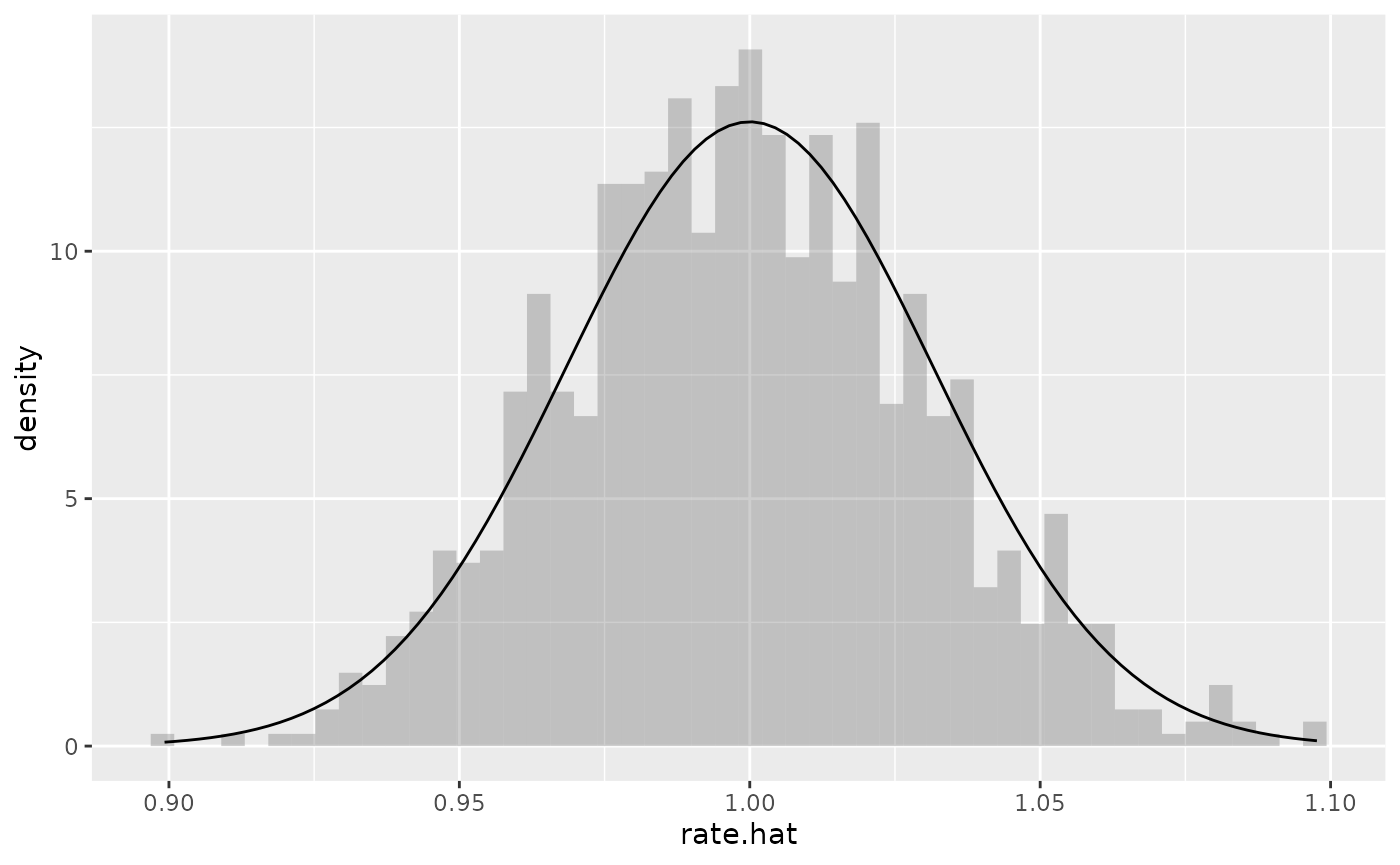
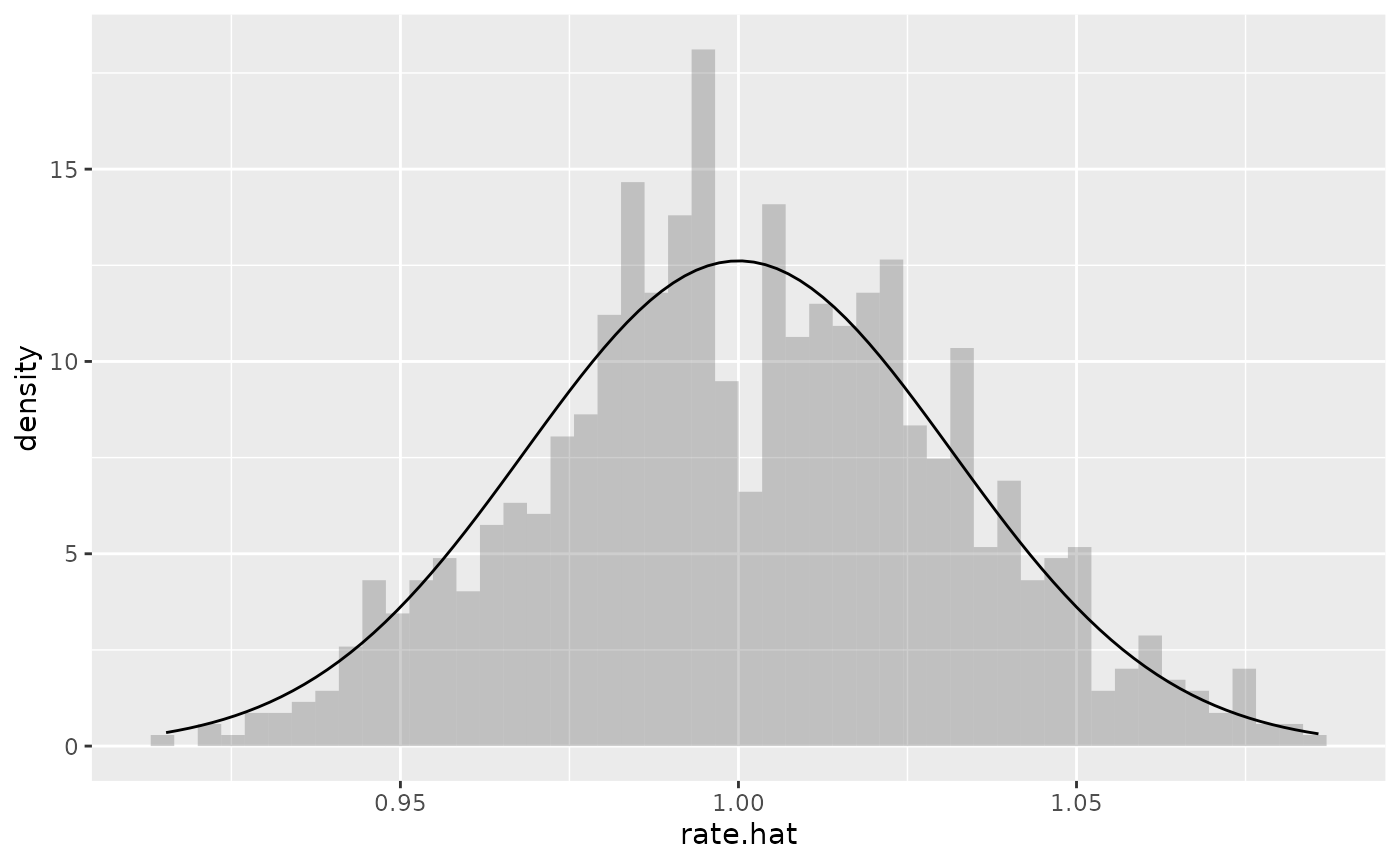
Built site for algebraic.mle: 0.9.0@6d1b77b

diff --git a/articles/exponential-mle.html b/articles/exponential-mle.html
@@ -105,10 +105,10 @@
 <span class="co">#&gt; <span style="color: #949494;"># A tibble: 4 × 1</span></span>
 <span class="co">#&gt;        x</span>
 <span class="co">#&gt;    <span style="color: #949494; font-style: italic;">&lt;dbl&gt;</span></span>
-<span class="co">#&gt; <span style="color: #BCBCBC;">1</span> 2.31  </span>
-<span class="co">#&gt; <span style="color: #BCBCBC;">2</span> 0.943 </span>
-<span class="co">#&gt; <span style="color: #BCBCBC;">3</span> 0.988 </span>
-<span class="co">#&gt; <span style="color: #BCBCBC;">4</span> 0.053<span style="text-decoration: underline;">7</span></span></code></pre></div>
+<span class="co">#&gt; <span style="color: #BCBCBC;">1</span> 0.039<span style="text-decoration: underline;">8</span></span>
+<span class="co">#&gt; <span style="color: #BCBCBC;">2</span> 0.418 </span>
+<span class="co">#&gt; <span style="color: #BCBCBC;">3</span> 0.644 </span>
+<span class="co">#&gt; <span style="color: #BCBCBC;">4</span> 1.05</span></code></pre></div>
 <p>We show a histogram of the sample overlaid with a plot of the exponential function’s pdf, with:</p>
 <div class="sourceCode" id="cb5"><pre class="downlit sourceCode r">
 <code class="sourceCode R"><span class="fu"><a href="https://ggplot2.tidyverse.org/reference/ggplot.html" class="external-link">ggplot</a></span><span class="op">(</span><span class="va">x</span>, <span class="fu"><a href="https://ggplot2.tidyverse.org/reference/aes.html" class="external-link">aes</a></span><span class="op">(</span>x<span class="op">=</span><span class="va">x</span><span class="op">)</span><span class="op">)</span> <span class="op">+</span> <span class="fu"><a href="https://ggplot2.tidyverse.org/reference/geom_histogram.html" class="external-link">geom_histogram</a></span><span class="op">(</span><span class="fu"><a href="https://ggplot2.tidyverse.org/reference/aes.html" class="external-link">aes</a></span><span class="op">(</span>y<span class="op">=</span><span class="va">..density..</span><span class="op">)</span>,alpha<span class="op">=</span><span class="fl">.2</span><span class="op">)</span> <span class="op">+</span>
@@ -125,35 +125,35 @@
 <span class="fu"><a href="https://rdrr.io/r/base/summary.html" class="external-link">summary</a></span><span class="op">(</span><span class="va">rate.hat</span><span class="op">)</span>
 <span class="co">#&gt; Maximum likelihood estimator, of type mle ,</span>
 <span class="co">#&gt; is normally distributed with mean</span>
-<span class="co">#&gt; [1] 1.074201</span>
+<span class="co">#&gt; [1] 1.034449</span>
 <span class="co">#&gt; and variance-covariance</span>
 <span class="co">#&gt;             [,1]</span>
-<span class="co">#&gt; [1,] 0.001153907</span>
+<span class="co">#&gt; [1,] 0.001070085</span>
 <span class="co">#&gt; ---</span>
-<span class="co">#&gt; The asymptotic mean squared error 0.001153907 </span>
+<span class="co">#&gt; The asymptotic mean squared error 0.001070085 </span>
 <span class="co">#&gt; The asymptotic 95% confidence interval is</span>
-<span class="co">#&gt;      2.5 %   97.5 %</span>
-<span class="co">#&gt; 1 1.018326 1.130075</span>
-<span class="co">#&gt; The log-likelihood is -928.4233 </span>
-<span class="co">#&gt; The AIC is 1858.847</span></code></pre></div>
+<span class="co">#&gt;       2.5 %   97.5 %</span>
+<span class="co">#&gt; 1 0.9806423 1.088256</span>
+<span class="co">#&gt; The log-likelihood is -966.1311 </span>
+<span class="co">#&gt; The AIC is 1934.262</span></code></pre></div>
 <p>We can show the point estimator with:</p>
 <div class="sourceCode" id="cb7"><pre class="downlit sourceCode r">
 <code class="sourceCode R"><span class="fu"><a href="../reference/point.html">point</a></span><span class="op">(</span><span class="va">rate.hat</span><span class="op">)</span>
-<span class="co">#&gt; [1] 1.074201</span></code></pre></div>
+<span class="co">#&gt; [1] 1.034449</span></code></pre></div>
 <p>We can show the Fisher information and variance-covariance matrices with:</p>
 <div class="sourceCode" id="cb8"><pre class="downlit sourceCode r">
 <code class="sourceCode R"><span class="fu"><a href="../reference/fisher_info.html">fisher_info</a></span><span class="op">(</span><span class="va">rate.hat</span><span class="op">)</span>
 <span class="co">#&gt;          [,1]</span>
-<span class="co">#&gt; [1,] 866.6211</span>
+<span class="co">#&gt; [1,] 934.5055</span>
 <span class="fu"><a href="https://rdrr.io/r/stats/vcov.html" class="external-link">vcov</a></span><span class="op">(</span><span class="va">rate.hat</span><span class="op">)</span>
 <span class="co">#&gt;             [,1]</span>
-<span class="co">#&gt; [1,] 0.001153907</span></code></pre></div>
+<span class="co">#&gt; [1,] 0.001070085</span></code></pre></div>
 <p>(If <code>rate.hat</code> had been a vector, <code>vcov</code> would have output a variance-covariance matrix. We may consider the above outputs <span class="math inline">\(1 \times 1\)</span> matrices.)</p>
 <p>We can show the confidence interval with:</p>
 <div class="sourceCode" id="cb9"><pre class="downlit sourceCode r">
 <code class="sourceCode R"><span class="fu"><a href="https://rdrr.io/r/stats/confint.html" class="external-link">confint</a></span><span class="op">(</span><span class="va">rate.hat</span><span class="op">)</span>
-<span class="co">#&gt;      2.5 %   97.5 %</span>
-<span class="co">#&gt; 1 1.018326 1.130075</span></code></pre></div>
+<span class="co">#&gt;       2.5 %   97.5 %</span>
+<span class="co">#&gt; 1 0.9806423 1.088256</span></code></pre></div>
 <div class="section level3">
 <h3 id="sampling-distribution-of-the-mle">Sampling distribution of the MLE<a class="anchor" aria-label="anchor" href="#sampling-distribution-of-the-mle"></a>
 </h3>
@@ -206,10 +206,10 @@
 <div class="sourceCode" id="cb15"><pre class="downlit sourceCode r">
 <code class="sourceCode R"><span class="fu"><a href="../reference/point.html">point</a></span><span class="op">(</span><span class="va">f.hat</span><span class="op">)</span>
 <span class="co">#&gt;          [,1]</span>
-<span class="co">#&gt; [1,] 2.148401</span>
+<span class="co">#&gt; [1,] 2.068898</span>
 <span class="fu"><a href="https://rdrr.io/r/stats/vcov.html" class="external-link">vcov</a></span><span class="op">(</span><span class="va">f.hat</span><span class="op">)</span>
 <span class="co">#&gt;             [,1]</span>
-<span class="co">#&gt; [1,] 0.004569384</span></code></pre></div>
+<span class="co">#&gt; [1,] 0.004079375</span></code></pre></div>
 </div>
 </div>
 </div>
@@ -249,8 +249,8 @@
 <span class="fu"><a href="https://tibble.tidyverse.org/reference/rownames.html" class="external-link">rownames</a></span><span class="op">(</span><span class="va">df</span><span class="op">)</span> <span class="op">&lt;-</span> <span class="fu"><a href="https://rdrr.io/r/base/c.html" class="external-link">c</a></span><span class="op">(</span><span class="st">"weighted MLE"</span>, <span class="st">"MLE"</span><span class="op">)</span>
 <span class="fu"><a href="https://rdrr.io/r/base/print.html" class="external-link">print</a></span><span class="op">(</span><span class="va">df</span><span class="op">)</span>
 <span class="co">#&gt;              point estimate     variance</span>
-<span class="co">#&gt; weighted MLE      0.9535007 0.0009182141</span>
-<span class="co">#&gt; MLE               0.9629926 0.0009273548</span></code></pre></div>
+<span class="co">#&gt; weighted MLE      0.9831240 0.0009691236</span>
+<span class="co">#&gt; MLE               0.9857592 0.0009717212</span></code></pre></div>
 <p>We see that <span class="math inline">\(\hat\theta\)</span> and <span class="math inline">\(\hat\theta_w\)</span> model approximately the same sampling distribution for <span class="math inline">\(\theta\)</span>.</p>
 </div>
 </div>

diff --git a/reference/sd.mle.html b/reference/sd.mle.html
@@ -1,0 +1,93 @@
+<!DOCTYPE html>
+<!-- Generated by pkgdown: do not edit by hand --><html lang="en"><head><meta http-equiv="Content-Type" content="text/html; charset=UTF-8"><meta charset="utf-8"><meta http-equiv="X-UA-Compatible" content="IE=edge"><meta name="viewport" content="width=device-width, initial-scale=1, shrink-to-fit=no"><meta name="description" content="Method for obtaining the standard deviation of an mle object."><title>Method for obtaining the standard deviation of an mle object. — sd.mle • algebraic.mle</title><script src="../deps/jquery-3.6.0/jquery-3.6.0.min.js"></script><meta name="viewport" content="width=device-width, initial-scale=1, shrink-to-fit=no"><link href="../deps/bootstrap-5.1.0/bootstrap.min.css" rel="stylesheet"><script src="../deps/bootstrap-5.1.0/bootstrap.bundle.min.js"></script><!-- Font Awesome icons --><link rel="stylesheet" href="https://cdnjs.cloudflare.com/ajax/libs/font-awesome/5.12.1/css/all.min.css" integrity="sha256-mmgLkCYLUQbXn0B1SRqzHar6dCnv9oZFPEC1g1cwlkk=" crossorigin="anonymous"><link rel="stylesheet" href="https://cdnjs.cloudflare.com/ajax/libs/font-awesome/5.12.1/css/v4-shims.min.css" integrity="sha256-wZjR52fzng1pJHwx4aV2AO3yyTOXrcDW7jBpJtTwVxw=" crossorigin="anonymous"><!-- bootstrap-toc --><script src="https://cdn.rawgit.com/afeld/bootstrap-toc/v1.0.1/dist/bootstrap-toc.min.js"></script><!-- headroom.js --><script src="https://cdnjs.cloudflare.com/ajax/libs/headroom/0.11.0/headroom.min.js" integrity="sha256-AsUX4SJE1+yuDu5+mAVzJbuYNPHj/WroHuZ8Ir/CkE0=" crossorigin="anonymous"></script><script src="https://cdnjs.cloudflare.com/ajax/libs/headroom/0.11.0/jQuery.headroom.min.js" integrity="sha256-ZX/yNShbjqsohH1k95liqY9Gd8uOiE1S4vZc+9KQ1K4=" crossorigin="anonymous"></script><!-- clipboard.js --><script src="https://cdnjs.cloudflare.com/ajax/libs/clipboard.js/2.0.6/clipboard.min.js" integrity="sha256-inc5kl9MA1hkeYUt+EC3BhlIgyp/2jDIyBLS6k3UxPI=" crossorigin="anonymous"></script><!-- search --><script src="https://cdnjs.cloudflare.com/ajax/libs/fuse.js/6.4.6/fuse.js" integrity="sha512-zv6Ywkjyktsohkbp9bb45V6tEMoWhzFzXis+LrMehmJZZSys19Yxf1dopHx7WzIKxr5tK2dVcYmaCk2uqdjF4A==" crossorigin="anonymous"></script><script src="https://cdnjs.cloudflare.com/ajax/libs/autocomplete.js/0.38.0/autocomplete.jquery.min.js" integrity="sha512-GU9ayf+66Xx2TmpxqJpliWbT5PiGYxpaG8rfnBEk1LL8l1KGkRShhngwdXK1UgqhAzWpZHSiYPc09/NwDQIGyg==" crossorigin="anonymous"></script><script src="https://cdnjs.cloudflare.com/ajax/libs/mark.js/8.11.1/mark.min.js" integrity="sha512-5CYOlHXGh6QpOFA/TeTylKLWfB3ftPsde7AnmhuitiTX4K5SqCLBeKro6sPS8ilsz1Q4NRx3v8Ko2IBiszzdww==" crossorigin="anonymous"></script><!-- pkgdown --><script src="../pkgdown.js"></script><meta property="og:title" content="Method for obtaining the standard deviation of an mle object. — sd.mle"><meta property="og:description" content="Method for obtaining the standard deviation of an mle object."><!-- mathjax --><script src="https://cdnjs.cloudflare.com/ajax/libs/mathjax/2.7.5/MathJax.js" integrity="sha256-nvJJv9wWKEm88qvoQl9ekL2J+k/RWIsaSScxxlsrv8k=" crossorigin="anonymous"></script><script src="https://cdnjs.cloudflare.com/ajax/libs/mathjax/2.7.5/config/TeX-AMS-MML_HTMLorMML.js" integrity="sha256-84DKXVJXs0/F8OTMzX4UR909+jtl4G7SPypPavF+GfA=" crossorigin="anonymous"></script><!--[if lt IE 9]>
+<script src="https://oss.maxcdn.com/html5shiv/3.7.3/html5shiv.min.js"></script>
+<script src="https://oss.maxcdn.com/respond/1.4.2/respond.min.js"></script>
+<![endif]--></head><body>
+    <a href="#main" class="visually-hidden-focusable">Skip to contents</a>
+    
+
+    <nav class="navbar fixed-top navbar-light navbar-expand-lg bg-light"><div class="container">
+    
+    <a class="navbar-brand me-2" href="../index.html">algebraic.mle</a>
+
+    <small class="nav-text text-muted me-auto" data-bs-toggle="tooltip" data-bs-placement="bottom" title="">0.9.0</small>
+
+    
+    <button class="navbar-toggler" type="button" data-bs-toggle="collapse" data-bs-target="#navbar" aria-controls="navbar" aria-expanded="false" aria-label="Toggle navigation">
+      <span class="navbar-toggler-icon"></span>
+    </button>
+
+    <div id="navbar" class="collapse navbar-collapse ms-3">
+      <ul class="navbar-nav me-auto"><li class="active nav-item">
+  <a class="nav-link" href="../reference/index.html">Reference</a>
+</li>
+<li class="nav-item dropdown">
+  <a href="#" class="nav-link dropdown-toggle" data-bs-toggle="dropdown" role="button" aria-expanded="false" aria-haspopup="true" id="dropdown-articles">Articles</a>
+  <div class="dropdown-menu" aria-labelledby="dropdown-articles">
+    <a class="dropdown-item" href="../articles/exponential-mle.html">Exponential distribution MLE</a>
+  </div>
+</li>
+<li class="nav-item">
+  <a class="nav-link" href="../news/index.html">Changelog</a>
+</li>
+      </ul><form class="form-inline my-2 my-lg-0" role="search">
+        <input type="search" class="form-control me-sm-2" aria-label="Toggle navigation" name="search-input" data-search-index="../search.json" id="search-input" placeholder="Search for" autocomplete="off"></form>
+
+      <ul class="navbar-nav"><li class="nav-item">
+  <a class="external-link nav-link" href="https://github.com/queelius/algebraic.mle/" aria-label="github">
+    <span class="fab fa fab fa-github fa-lg"></span>
+     
+  </a>
+</li>
+      </ul></div>
+
+    
+  </div>
+</nav><div class="container template-reference-topic">
+<div class="row">
+  <main id="main" class="col-md-9"><div class="page-header">
+      <img src="" class="logo" alt=""><h1>Method for obtaining the standard deviation of an <code>mle</code> object.</h1>
+      <small class="dont-index">Source: <a href="https://github.com/queelius/algebraic.mle/blob/HEAD/R/mle.R" class="external-link"><code>R/mle.R</code></a></small>
+      <div class="d-none name"><code>sd.mle.Rd</code></div>
+    </div>
+
+    <div class="ref-description section level2">
+    <p>Method for obtaining the standard deviation of an <code>mle</code> object.</p>
+    </div>
+
+    <div class="section level2">
+    <h2 id="ref-usage">Usage<a class="anchor" aria-label="anchor" href="#ref-usage"></a></h2>
+    <div class="sourceCode"><pre class="sourceCode r"><code><span class="fu">sd.mle</span><span class="op">(</span><span class="va">x</span>, na.rm <span class="op">=</span> <span class="cn">FALSE</span><span class="op">)</span></code></pre></div>
+    </div>
+
+    <div class="section level2">
+    <h2 id="arguments">Arguments<a class="anchor" aria-label="anchor" href="#arguments"></a></h2>
+    <dl><dt>x</dt>
+<dd><p>the <code>mle</code> object</p></dd>
+
+
+<dt>na.rm</dt>
+<dd><p>logical. Should missing values be removed?</p></dd>
+
+</dl></div>
+
+  </main><aside class="col-md-3"><nav id="toc"><h2>On this page</h2>
+    </nav></aside></div>
+
+
+    <footer><div class="pkgdown-footer-left">
+  <p></p><p>Developed by Alexander Towell.</p>
+</div>
+
+<div class="pkgdown-footer-right">
+  <p></p><p>Site built with <a href="https://pkgdown.r-lib.org/" class="external-link">pkgdown</a> 2.0.4.</p>
+</div>
+
+    </footer></div>
+
+  
+
+  
+
+  </body></html>
+

diff --git a/reference/index.html b/reference/index.html
@@ -299,6 +299,11 @@ is an <code>mle</code> object.</dd>
         <dd>Method for sampling from an <code>mle</code> object.</dd>
       </dl><dl><dt>
           
+          <code><a href="sd.mle.html">sd.mle()</a></code> 
+        </dt>
+        <dd>Method for obtaining the standard deviation of an <code>mle</code> object.</dd>
+      </dl><dl><dt>
+          
           <code><a href="summary.boot.html">summary(<i>&lt;boot&gt;</i>)</a></code> 
         </dt>
         <dd>Function for obtaining a summary of <code>object</code>, which is a fitted
